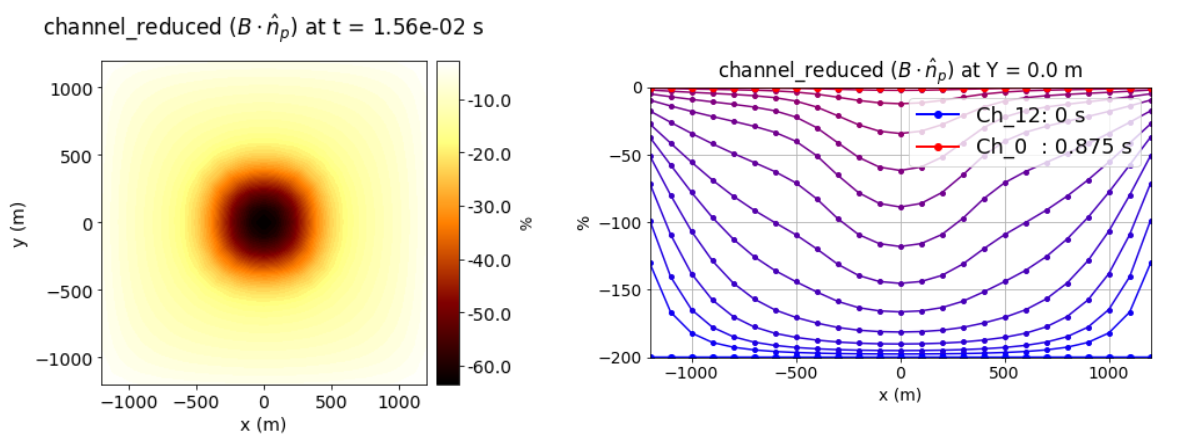
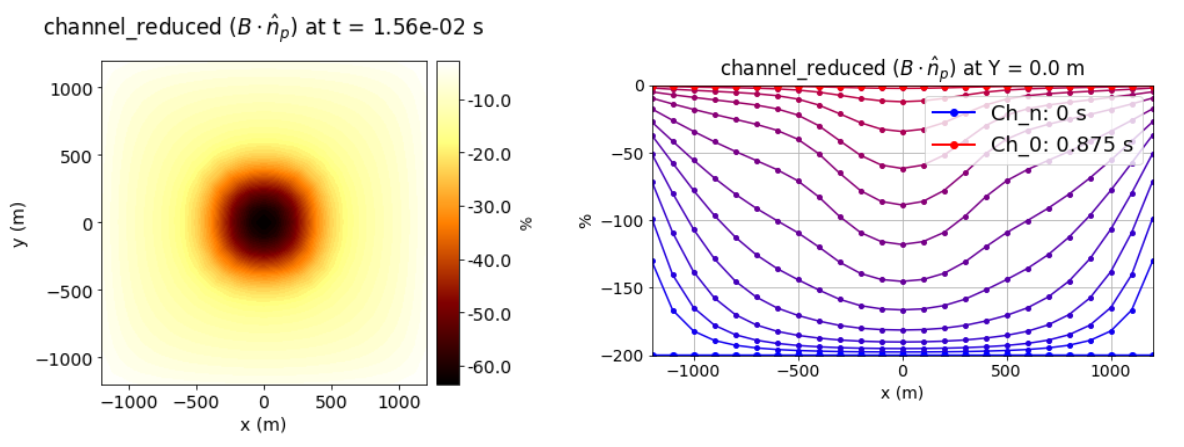
Add borehole UTEM anomalies section

Changed region(s): [[0.4688, 0.1163, 1.0, 0.9016]]

diff --git a/content/comprehensive_workflow/utem_borehole/1_basic_anomalies.rst b/content/comprehensive_workflow/utem_borehole/1_basic_anomalies.rst
@@ -1,18 +1,18 @@
-.. _comprehensive_workflow_utem_1:
+.. _comprehensive_workflow_borehole_utem_1:
 
 
-Understanding Surface UTEM Anomalies
-====================================
+Understanding Borehole UTEM Anomalies
+=====================================
 
-In order to properly interpret surface UTEM data, it is import to first understand what fields are measured, how the data are plotted and the anomalies for basic structures. Here, we investigate the UTEM anomaly produced by a block in a half-space. The knowledge gained here can be used to determine the coordinate system and sign convention for field collected data, and the operations required to transform the raw data into UBC GIF convention.
+In order to properly interpret borehole UTEM data, it is import to first understand what fields are measured, how the data are plotted and the anomalies for basic structures. Here, we investigate the UTEM anomaly produced by a block in a half-space. The knowledge gained here can be used to determine the coordinate system and sign convention for field collected data, and the operations required to transform the raw data into UBC GIF convention.
 
-Introduction to Surface UTEM
-----------------------------
+Introduction to Borehole UTEM
+-----------------------------
 
 Survey Geometry and Fundamental Concept
 ^^^^^^^^^^^^^^^^^^^^^^^^^^^^^^^^^^^^^^^
 
-During a UTEM survey, large inductive loop sources are placed on the Earth's surface. Depending on how each loop is coupled with the target, receivers may be located inside or outside the loop. Data may be collected for several sets of loops and receivers in order to excite the target from multiple directions.
+During a borehole UTEM survey, large inductive loop sources are placed on the Earth's surface. Depending on how each loop is coupled with the target, borehole receivers may be located inside or outside the loop. Data may be collected for several sets of loops and borehole receivers in order to excite the target from multiple directions.
 
 .. figure:: images/survey_geometry.png
     :align: center
@@ -82,7 +82,6 @@ For UTEM systems, the time channels at which the fields are measured depend on t
 - **Ch_n:** These refer to one or two time channels collected at :math:`t<0`; i.e. before the step-on occurs. For example, we may measure the fields at :math:`t = -T/2^{13}` to capture the steady-state B-field the moment before the step excitation.
 
 
-
 .. _comprehensive_workflow_utem_1_plotting:
 
 Plotting UTEM Data
@@ -99,16 +98,6 @@ Let us assume the raw field measurements have been converted to the B-field repr
 Unlike most TEM systems, UTEM instruments measure data during the on-time. The measured fields are dominated by the geometry of the primary field produced by the transmitter. Therefore anomalies resulting from conductive targets are very difficult to identify when the measured fields are plotted directly; see figure below. There are several ways to represent UTEM data that account for the geometry of the transmitter loop and highlight anomalous responses from the Earth. These are defined in the following subsections.
 
 
-.. figure:: images/total_field.png
-    :align: center
-    :width: 700
-
-    B-field projected along the direction of the primary field at 1.56e-2 s (left). Profile data at each time channel (Ch_n to Ch_0) along an Easting transect at y = 0 m (right).
-
-.. important:: The UTEM profile data at each time channel is plotted using a different color from blue (Ch_n: t = 0 s) to red (Ch_0: t = 0.875 s); see above.
-
-
-
 Normalized by Primary Field
 ^^^^^^^^^^^^^^^^^^^^^^^^^^^
 
@@ -123,13 +112,6 @@ Let :math:`\mathbf{b}_\sqcap(t_i)` represent the total field at time channel *i*
 Therefore we are effectively representing the data as a percentage of the primary field.
 
 
-.. figure:: images/primary_normalized.png
-    :align: center
-    :width: 700
-
-    Normalized B-field projected along the direction of the primary field at 1.56e-2 s (left). Profile data at each time channel (Ch_n to Ch_0) along an Easting transect at y = 0 m (right).
-
-
 Primary Field Reduced Data
 ^^^^^^^^^^^^^^^^^^^^^^^^^^
 
@@ -139,15 +121,6 @@ Where :math:`\mathbf{b}_\sqcap(t_i)` represents the total field value at time ch
 
 .. math::
     \mathbf{d}(t_i) = 100\% \times \Bigg ( \frac{\mathbf{b}_\sqcap(t_i) - \mathbf{b_p}}{\big | \, \mathbf{b_p} \, \big |} \Bigg )
-
-
-
-.. figure:: images/primary_reduced.png
-    :align: center
-    :width: 700
-
-    Primary reduced data projected along the direction of the primary field at 1.56e-2 s (left). Profile data (Ch_n to Ch_0) at each time channel along an Easting transect at y = 0 m (right).
-
 
 
 Channel Reduced Data
@@ -160,13 +133,6 @@ The channel reduced representation of the data is given by:
 
 .. math::
     \mathbf{d}(t_i) = 100\% \times \Bigg ( \frac{\mathbf{b}_\sqcap(t_i) - \mathbf{b_\sqcap}(t_{max})}{\big | \, \mathbf{b}_\sqcap(t_{max}) \, \big |} \Bigg )
-
-
-.. figure:: images/primary_reduced.png
-    :align: center
-    :width: 700
-
-    Channel reduced data for the B-field projected along the direction of the primary field at 1.56e-2 s (left). Profile data at each time channel (Ch_n to Ch_0) along an Easting transect at y = 0 m (right).
 
 
 The first two plotting approaches depended on having a high level of confidence in the accuracy of the primary field computation. Channel reduced data offers a solution when this is not the case. However, the assumptions we made when defining channel reduced data are not correct in the presence of highly magnetized bodies; i.e. Ch_0 being equivalent to the primary field.
@@ -183,13 +149,9 @@ Here, we have chosen to explain the physics in using the B-field resulting from 
 Anomaly for a Moderately Conductive Block (Primary Normalized)
 ^^^^^^^^^^^^^^^^^^^^^^^^^^^^^^^^^^^^^^^^^^^^^^^^^^^^^^^^^^^^^^
 
-.. figure:: images/primary_normalized_low.PNG
-    :align: right
-    :width: 350
-
 Here, we discuss the characteristics of the primary normalized data for a moderately conductive block (1 S/m) within a half-space (0.01 S/m) located near the center of a large square loop. In this case, **we assume the period of the waveform is long enough for the secondary fields to decay completely before t = 0 s**. Fields are measured several meters above the surface of the Earth. Data maps for the x, y and z components of the B-field normalized by the absolute value of the primary field are plotted below.
 
-.. figure:: images/primary_normalized_low.gif
+.. figure:: images/primary_normalized_low.PNG
     :align: center
     :width: 700
 
@@ -225,13 +187,9 @@ Here, we discuss the characteristics of the primary normalized data for a modera
 Anomaly for a Highly Conductive Block (Primary Normalized)
 ^^^^^^^^^^^^^^^^^^^^^^^^^^^^^^^^^^^^^^^^^^^^^^^^^^^^^^^^^^
 
-.. figure:: images/primary_normalized_high.PNG
-    :align: right
-    :width: 350
-
 Here, we discuss the characteristics of primary normalized data for a highly conductive block (1000 S/m) in a halfspace (0.01 S/m) located near the center of a large square loop. In this case, **the waveform period is not long enough for the induced currents to decay fully over the course of each half-duty cycle**. Fields are measured several meters above the surface of the Earth. Data maps for the x, y and z components of the B-field normalized by the absolute value of the primary field are plotted below.
 
-.. figure:: images/primary_normalized_high.gif
+.. figure:: images/primary_normalized_high.PNG
     :align: center
     :width: 700
 
@@ -259,17 +217,11 @@ Here, we discuss the characteristics of primary normalized data for a highly con
 Anomaly for a Conductive and Susceptible Block (Primary Normalized)
 ^^^^^^^^^^^^^^^^^^^^^^^^^^^^^^^^^^^^^^^^^^^^^^^^^^^^^^^^^^^^^^^^^^^
 
-.. figure:: images/primary_normalized_susceptible.PNG
-    :align: right
-    :width: 350
-
 Here, we discuss the characteristics of primary normalized data for a moderately conductive (1 S/m) and magnetically susceptible (1 SI) block in a half-space (0.01 S/m) located near the center of a large square loop. Fields are measured several meters above the surface of the Earth. Data maps for the x, y and z components of the B-field normalized by the absolute value of the primary field are plotted below.
 
-
-.. figure:: images/primary_normalized_susceptible.gif
+.. figure:: images/primary_normalized_susceptible.PNG
     :align: center
     :width: 700
-
 
 **At t = 0:**
 

diff --git a/content/comprehensive_workflow/utem_borehole/index.rst b/content/comprehensive_workflow/utem_borehole/index.rst
@@ -1,0 +1,38 @@
+.. _comprehensive_workflow_utem_borehole_index:
+
+
+Comprehensive Workflows: Borehole UTEM
+======================================
+
+**Author: Devin C. Cowan**
+
+**Published: March, 2020**
+
+
+Here, we present a general workflow for loading, interpreting and inverting surface "University of Toronto ElecroMagnetometer" (UTEM) data. We begin with UTEM data in AMIRA TEM files. Our goal is to invert the data to recover a 3D conductivity model. You may work with the tutorial dataset provided or your own data:
+
+..     - `Download the tutorial data <https://github.com/ubcgif/GIFtoolsCookbook/raw/master/assets/comprehensive_tutorial_ztem.zip>`_
+
+
+.. The data used for this tutorial were collected at Dufferin Lake as part of a uranium exploration project. The data are public domain. They were downloaded from the `Saskatchewan Mineral Assessment Database <https://www.saskatchewan.ca/business/agriculture-natural-resources-and-industry/mineral-exploration-and-mining/saskatchewan-geological-survey/saskatchewan-mineral-assessment-database-smad>`__ . The original data have been down-sampled to make the size of data files more manageable.
+
+
+.. .. figure:: images/title_page.png
+..     :align: center
+..     :width: 700
+
+
+**Tutorial Sections**
+
+.. toctree::
+    :maxdepth: 1
+
+    - Understanding borehole UTEM anomalies <1_basic_anomalies>
+    .. - Loading geophysical data and transforming from along-line cross-line convention to GIF convention <2_load_data>
+    .. - Standard assignment of uncertainties to ZTEM data <3_uncertainties>
+    .. - Preparing data for inversion within the GIFtools framework <4_data_preparation>
+    .. - Mesh design <5_mesh_design>
+    .. - Setting appropriate parameters and running the inversion <6_inversion>
+    .. - Examining convergence, data misfit and the recovered model <7_results>
+
+ 

diff --git a/content/comprehensive_workflow/index.rst b/content/comprehensive_workflow/index.rst
@@ -26,6 +26,7 @@ This section of the GIFtools cookbook is meant to provide practical tutorials fo
     MT: From EDI data to inversion <mt/index>
     ZTEM: From XYZ data to inversion <ztem/index>
     Surface UTEM: From AMIRA TEM data file to inversion <utem/index>
+    Borehole UTEM: From AMIRA TEM data file to inversion <utem_borehole/index>
 
 
 
